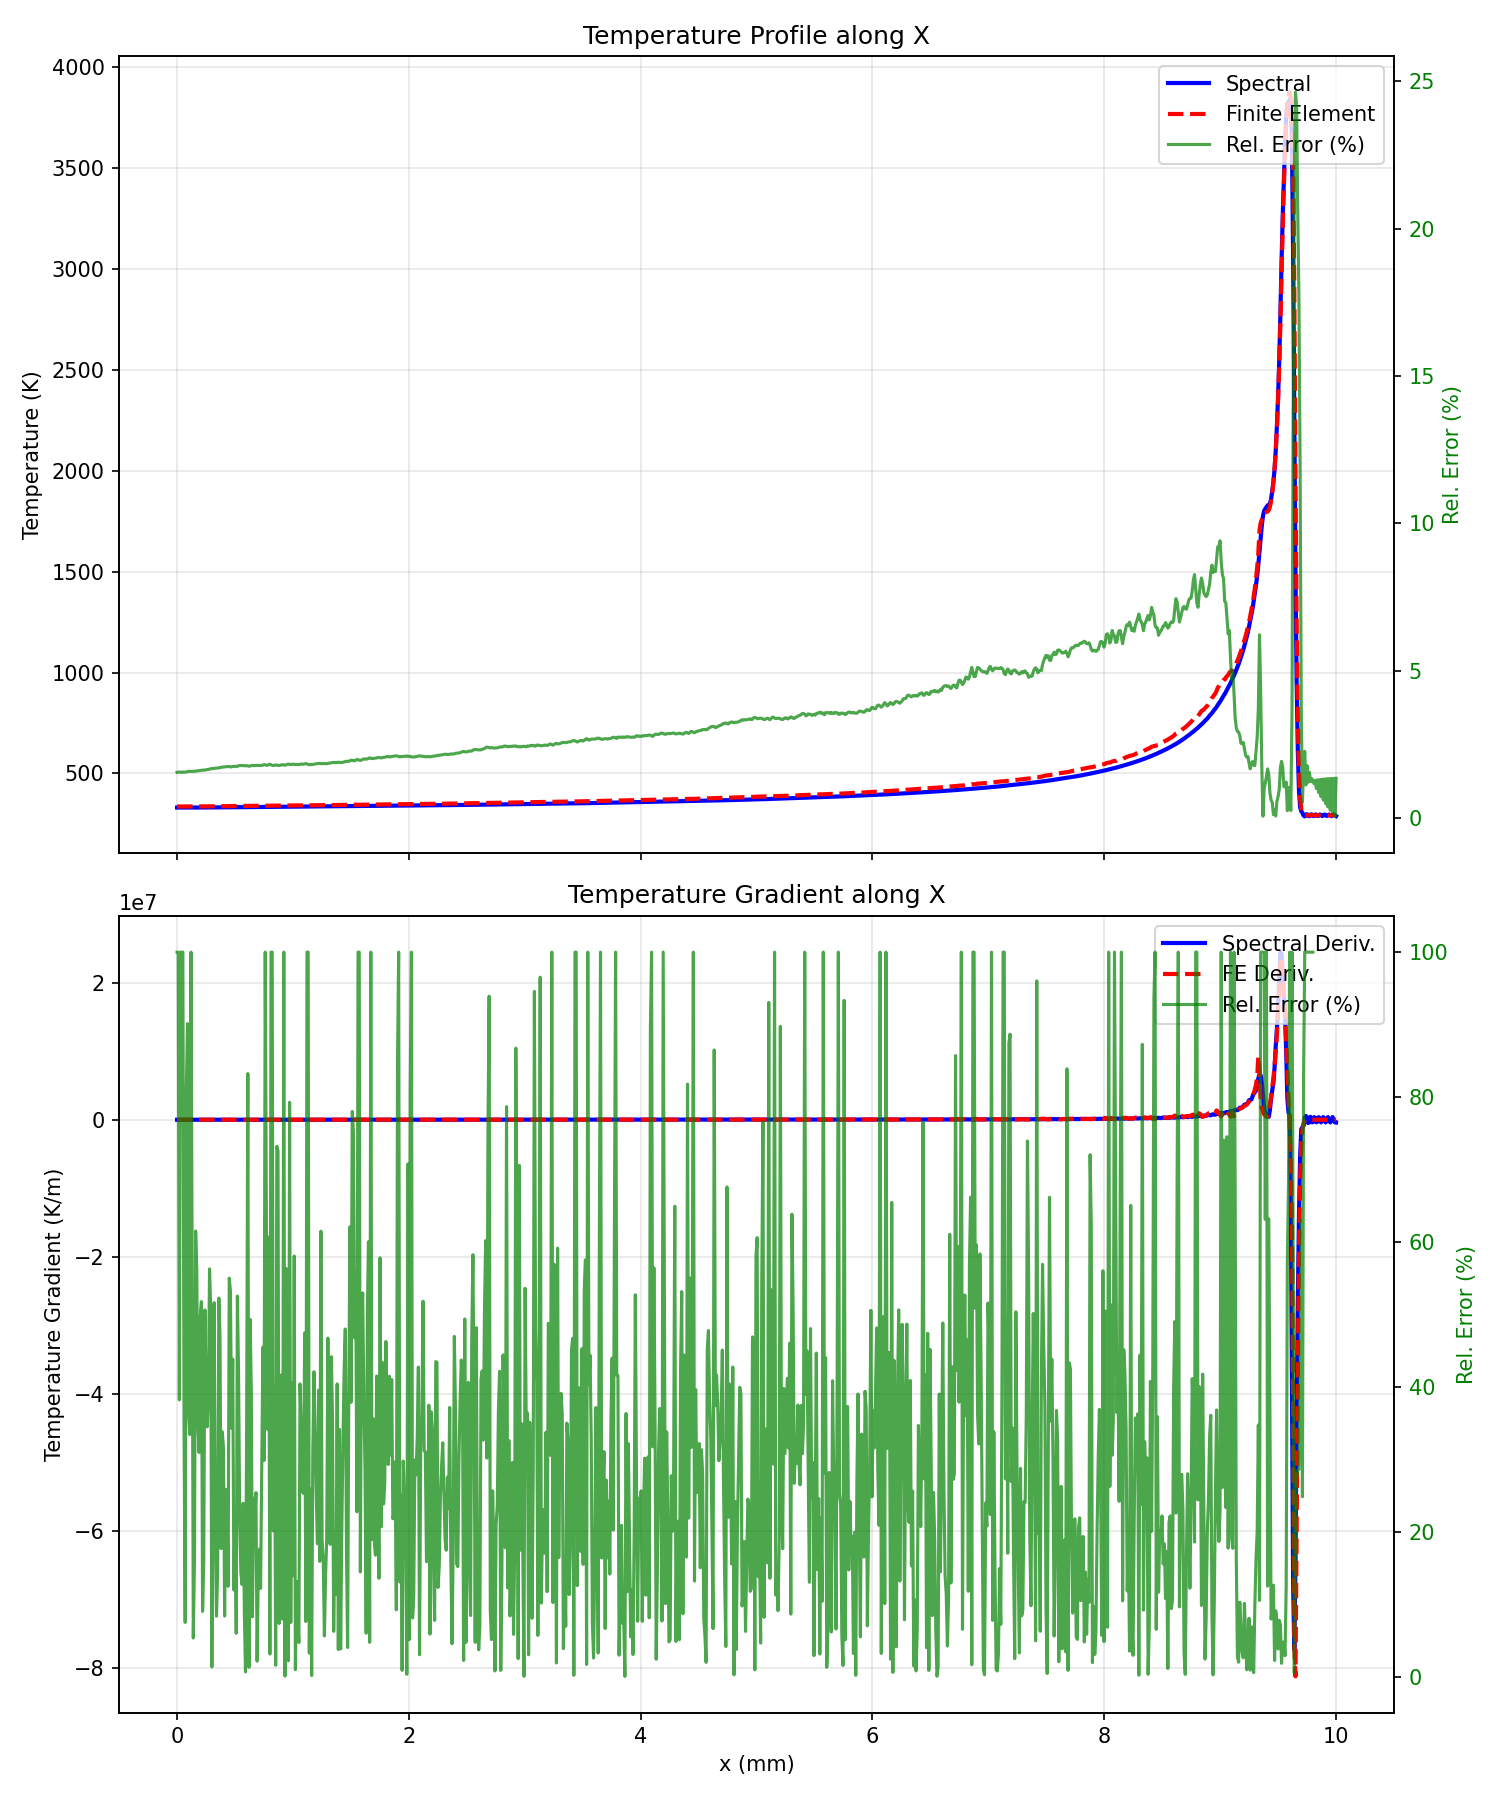
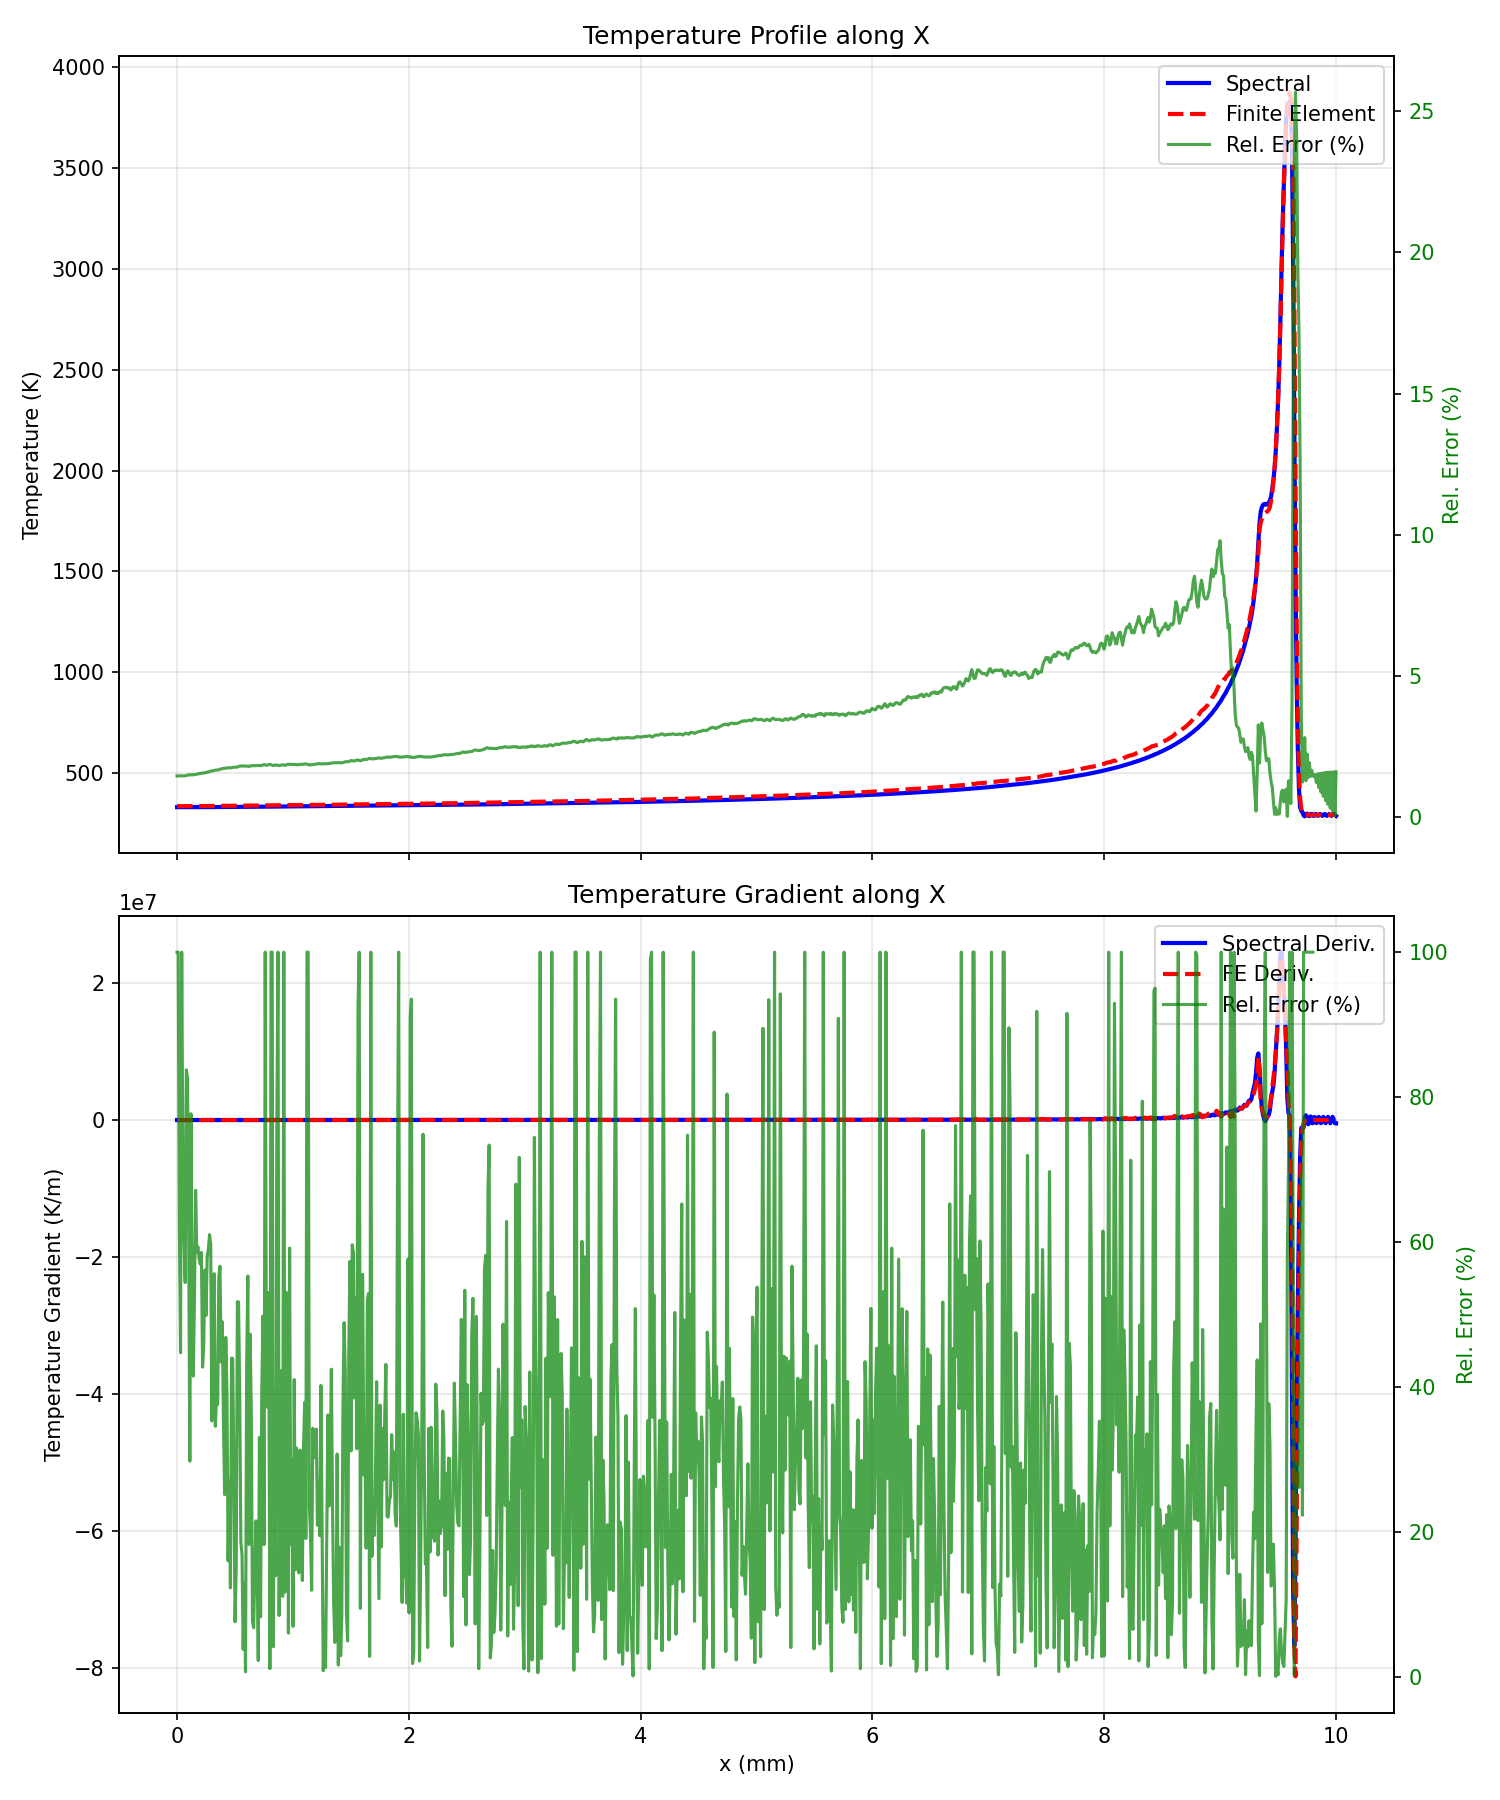
test gpu

diff --git a/implementations/physics/spectral_gpu_kernels.py b/implementations/physics/spectral_gpu_kernels.py
@@ -12,16 +12,58 @@ import utils.spectral_helpers as spec_hp  # Assuming this contains only scalar l
 # ======================================
 
 @cuda.jit
-def update_modes_etd1_kernel(aK, KK_by_Cp, B_scaled, a_temp_out):
+def update_modes_etd1_kernel(aK, B_scaled, a_temp_out, K, kx2, ky2, kz2, alpha, dt, rho_Cp):
     """
     Update spectral coefficients for ETD1 scheme.
+    Computes KK on the fly to save memory.
     Grid: 3D (nz, ny, nx)
     """
     z, y, x = cuda.grid(3)
     nz, ny, nx = aK.shape
 
     if z < nz and y < ny and x < nx:
-        a_temp_out[z, y, x] = aK[z, y, x] + KK_by_Cp[z, y, x] * B_scaled[y, x]
+        # Compute KK inline
+        # KK = (K - 1) / (-alpha * k^2 * rho * Cp)
+        # alpha * k^2
+        k2 = kx2[x] + ky2[y] + kz2[z]
+        denom = alpha * k2
+        
+        if denom == 0.0:
+            KK_val = dt / rho_Cp
+        else:
+            KK_val = (K[z, y, x] - 1.0) / (-denom * rho_Cp)
+            
+        a_temp_out[z, y, x] = aK[z, y, x] + KK_val * B_scaled[y, x]
+
+@cuda.jit
+def add_projected_source_kernel(a_temp, temp2, Bx, K, kx2, ky2, kz2, alpha, dt, rho_Cp):
+    """
+    Project partial source term (temp2) onto x-modes and add to a_temp weighted by KK.
+    temp2: (nx_box, nz, ny)
+    Bx: (nx, nx_box)
+    a_temp: (nz, ny, nx)
+    """
+    z, y, x = cuda.grid(3)
+    nz, ny, nx = a_temp.shape
+    nx_box = temp2.shape[0]
+    
+    if z < nz and y < ny and x < nx:
+        # 1. Finish Projection (Dot product over box x-modes)
+        Q_val = 0.0
+        for i in range(nx_box):
+            Q_val += temp2[i, z, y] * Bx[x, i] # Bx is (nx, nx_box)
+            
+        # 2. Compute KK inline
+        k2 = kx2[x] + ky2[y] + kz2[z]
+        denom = alpha * k2
+        
+        if denom == 0.0:
+            KK_val = dt / rho_Cp
+        else:
+            KK_val = (K[z, y, x] - 1.0) / (-denom * rho_Cp)
+            
+        # 3. Add to state
+        a_temp[z, y, x] += KK_val * Q_val
 
 @cuda.jit
 def add_source_term_modes_kernel(a_temp, KK, Q_modes):
@@ -92,12 +134,22 @@ class SpectralSolverState:
     """
     # Spectral Propagators
     K: cp.ndarray = None
-    KK: cp.ndarray = None
-    KK_by_Cp: cp.ndarray = None
+    # KK: cp.ndarray = None      # Removed to save memory
+    # KK_by_Cp: cp.ndarray = None # Removed to save memory
+     
+    # K-vector squared components for on-the-fly KK computation
+    kx2: cp.ndarray = None
+    ky2: cp.ndarray = None
+    kz2: cp.ndarray = None
+    
+    # Physics scalars for KK computation
+    alpha: float = 0.0
+    dt: float = 0.0
+    rho_Cp: float = 0.0
     
     # State Arrays
     a: cp.ndarray = None       # Current temperature modes (nz, ny, nx)
-    aK: cp.ndarray = None      # Decayed temperature modes (nz, ny, nx)
+    # aK: cp.ndarray = None      # Removed, we reuse 'a' as accumulator
     a_temp: cp.ndarray = None  # Temporary working array (nz, ny, nx)
     
     # Buffers
@@ -130,6 +182,10 @@ class SpectralSolverState:
     nx_box: int = 0
     ny_box: int = 0
     nz_box: int = 0
+    
+    # helper for slicing
+    box_y_ind_start: int = 0
+    box_y_ind_end: int = 0
     
     fine_mesh_initialized: bool = False
     
@@ -261,47 +317,45 @@ class SpectralSolverState:
         self.Bx_fine = cp.zeros((nx, self.nx_box), dtype=cp.float32)
         self.By_fine = cp.zeros((ny, self.ny_box), dtype=cp.float32)
         self.Bz_fine = self.Bz_fine_full[:, :self.nz_box] # Slicing works on GPU
-        self.box_x = cp.zeros(self.nx_box, dtype=cp.float32)
-        self.box_y = cp.zeros(self.ny_box, dtype=cp.float32)
-        self.box_z = z_fine_global # Use actual cell centers
-        
-        self.fine_mesh_initialized = False
-        self.ix_laser_box = max(0, min(self.nx_box - 1, int(round(0.5 * (self.nx_box - 1)))))
-        
-        self.dV_fine = self.dx_fine * self.dy_fine * self.dz_fine
-
-    def prepare_K_buffers(self, phys, geom, num):
-        """Precompute spectral propagators and allocate buffers on GPU."""
+        self.box_x = cK and setup scalar params for on-the-fly KK."""
         import logging
         logger = logging.getLogger(__name__)
-        logger.info("Precomputing K, KK on GPU... ")
+        logger.info("Precomputing K on GPU... ")
         
-        self.K, self.KK = precompute_K_KK(phys, num, geom)
-        # Project KK onto top-surface weighted Cp for source projection
-        nx, ny, nz = num.nx, num.ny, num.nz
-        sign = cp.power(-1.0, cp.arange(nz, dtype=cp.float32)).astype(cp.float32)
-        Cp_top = (self.Cp.astype(cp.float32) * sign)
-        self.KK_by_Cp = (self.KK * Cp_top[:, None, None]).astype(cp.float32)
+        self.K, self.kx2, self.ky2, self.kz2 = precompute_K_and_k2(phys, num, geom)
+        
+        # Store scalars
+        self.alpha = phys.k / (phys.rho * phys.Cp)
+        self.dt = num.dt
+        self.rho_Cp = phys.rho * phys.Cp
         
         # Allocate working arrays on GPU
-        self.q_diff = cp.empty((ny, nx), dtype=cp.float32)
-        self.B_buffer = cp.empty((ny, nx), dtype=cp.float32)
-        self.a_temp = cp.empty((nz, ny, nx), dtype=cp.float32)
-        self.aK = cp.empty((nz, ny, nx), dtype=cp.float32)
-        self.q_evap_old = cp.zeros((ny, nx), dtype=cp.float32)
-        self.q_evap_buffer = cp.zeros((ny, nx), dtype=cp.float32)
+        # Reduced memory: aK removed, KK removed
+        self.q_diff = cp.empty((num.ny, num.nx), dtype=cp.float32)
+        self.B_buffer = cp.empty((num.ny, num.nx), dtype=cp.float32)
+        self.a_temp = cp.empty((num.nz, num.ny, num.nx), dtype=cp.float32)
+        
+        # Re-use 'a' logic will happen in solver class
+        # self.aK = cp.empty((nz, ny, nx), dtype=cp.float32) # Removed
+        
+        self.q_evap_old = cp.zeros((num.ny, num.nx), dtype=cp.float32)
+        self.q_evap_buffer = cp.zeros((num.ny, num.nx), dtype=cp.float32)
         # ZYX layout
         self.Q_latent_buffer = cp.zeros((self.nz_box, self.ny_box, self.nx_box), dtype=cp.float32)
 
 
-def precompute_K_KK(phys, num, geom):
+def precompute_K_and_k2(phys, num, geom):
     """
-    Compute spectral Propagators (K, KK) on GPU.
+    Compute K and return k^2 components.
     """
     # Use CuPy
     kx = (np.pi * cp.arange(num.nx) / geom.Lx)
     ky = (np.pi * cp.arange(num.ny) / geom.Ly)
     kz = (np.pi * cp.arange(num.nz) / geom.Lz)
+
+    kx2 = kx**2
+    ky2 = ky**2
+    kz2 = kz**2
 
     # meshgrid(..., indexing='ij')
     KX, KY, KZ = cp.meshgrid(kx, ky, kz, indexing='ij')
@@ -310,6 +364,7 @@ def precompute_K_KK(phys, num, geom):
     alpha = phys.k / (phys.rho * phys.Cp)
     K = cp.exp(-alpha * k2 * num.dt).astype(cp.float32)
 
+    return K, kx2.astype(cp.float32), ky2.astype(cp.float32), kz2.astype(cp.float32)
     denom = alpha * k2
     mask_zero = (denom == 0)
     # Avoid div by zero
@@ -325,8 +380,8 @@ def precompute_K_KK(phys, num, geom):
 # Wrapper Functions
 # ======================================
 
-def update_modes_etd1(aK, KK_by_Cp, B_scaled, a_temp_out):
-    """Wrapper for ETD1 kernel."""
+def update_modes_etd1(aK, SsState, B_scaled, a_temp_out):
+    """Wrapper for ETD1 kernel with on-the-fly KK."""
     nz, ny, nx = aK.shape
     # Block dims
     threadsperblock = (8, 8, 8)
@@ -335,20 +390,58 @@ def update_modes_etd1(aK, KK_by_Cp, B_scaled, a_temp_out):
         (ny + threadsperblock[1] - 1) // threadsperblock[1],
         (nx + threadsperblock[2] - 1) // threadsperblock[2]
     )
-    update_modes_etd1_kernel[blockspergrid, threadsperblock](aK, KK_by_Cp, B_scaled, a_temp_out)
+    update_modes_etd1_kernel[blockspergrid, threadsperblock](
+        aK, B_scaled, a_temp_out,
+        SsState.K, SsState.kx2, SsState.ky2, SsState.kz2,
+        SsState.alpha, SsState.dt, SsState.rho_Cp
+    )
 
 
-def add_source_term_modes(a_temp, KK, Q_modes):
-    """Wrapper for Source Term Accumulation."""
-    nz, ny, nx = a_temp.shape
+def add_projected_source(a_target, field_box, SsState):
+    """
+    Project fine box field to global spectral modes and add to a_target weighted by KK.
+    Does NOT allocate full 3D intermediate array.
+    """
+    if not SsState.fine_mesh_initialized:
+        raise RuntimeError("Fine mesh not initialized.")
+    
+    # partial contraction steps
+    # 1. Contract Z: (nz_box, ny_box, nx_box) . (nz, nz_box) -> (ny_box, nx_box, nz)
+    # Bz_fine should be sliced (nz, nz_box)
+    Bz_fine = SsState.Bz_fine_full[:, :SsState.nz_box]
+    temp1 = cp.tensordot(field_box, Bz_fine, axes=(0, 1))
+    
+    # 2. Contract Y: (ny_box, nx_box, nz) . (ny, ny_box) -> (nx_box, nz, ny)
+    By_fine = SsState.By_fine_full[:, SsState.box_y_ind_start:SsState.box_y_ind_end] 
+    # Oops, need indices from solver state update?
+    # Actually SsState.By_fine IS the sliced/copied array in current code. 
+    # Let's check update_fine_mesh below. 
+    # It updates SsState.By_fine. So use it.
+    
+    temp2 = cp.tensordot(temp1, SsState.By_fine, axes=(0, 1))
+    
+    # temp2 is (nx_box, nz, ny).
+    
+    # 3. Final transform and addition via kernel
+    nz, ny, nx = a_target.shape
     threadsperblock = (8, 8, 8)
     blockspergrid = (
         (nz + threadsperblock[0] - 1) // threadsperblock[0],
         (ny + threadsperblock[1] - 1) // threadsperblock[1],
         (nx + threadsperblock[2] - 1) // threadsperblock[2]
     )
-    add_source_term_modes_kernel[blockspergrid, threadsperblock](a_temp, KK, Q_modes)
+    
+    # Scale by volume element dV_fine before adding?
+    # In original: modes *= SsState.dV_fine
+    # We can scale temp2 or do it in kernel. 
+    # Scaling temp2 is one operation on smaller array.
+    temp2 *= SsState.dV_fine
 
+    add_projected_source_kernel[blockspergrid, threadsperblock](
+        a_target, temp2, SsState.Bx_fine,
+        SsState.K, SsState.kx2, SsState.ky2, SsState.kz2,
+        SsState.alpha, SsState.dt, SsState.rho_Cp
+    )
 
 def compute_evaporation_flux(T_surface, q_out, P0, R_gas, T_boil, DeltaH_LV, R_v, T_liquidus):
     """Wrapper for Evaporation kernel."""
@@ -368,23 +461,6 @@ def compute_gaussian_laser_flux(X, Y, laser_x, laser_y, laser_r, laser_coef):
     # CuPy handles element-wise operations automatically
     r_sq = (X - laser_x) ** 2 + (Y - laser_y) ** 2
     return (laser_coef * cp.exp(-2.0 * r_sq / laser_r ** 2)).astype(cp.float32)
-
-
-def project_box_to_modes(field_box, SsState):
-    """Project fine box field to global spectral modes (GPU)."""
-    if not SsState.fine_mesh_initialized:
-        raise RuntimeError("Fine mesh not initialized.")
-    
-    # cp.tensordot is highly optimized
-    # 1. Contract Z_box: (nz_box, ny_box, nx_box) . (nz, nz_box) -> (ny_box, nx_box, nz)
-    temp1 = cp.tensordot(field_box, SsState.Bz_fine, axes=(0, 1))
-    # 2. Contract Y_box: (ny_box, nx_box, nz) . (ny, ny_box) -> (nx_box, nz, ny)
-    temp2 = cp.tensordot(temp1, SsState.By_fine, axes=(0, 1))
-    # 3. Contract X_box: (nx_box, nz, ny) . (nx, nx_box) -> (nz, ny, nx)
-    modes = cp.tensordot(temp2, SsState.Bx_fine, axes=(0, 1))
-    
-    modes *= SsState.dV_fine
-    return modes.astype(cp.float32)
 
 
 def reconstruct_temperature_box(a, SsState):
@@ -551,6 +627,10 @@ def update_fine_mesh(SsState, x_laser, y_laser):
         y_laser, SsState.dy_fine, SsState.ny_fine_total, SsState.ny_box
     )
     
+    # Store indices for optimized slicing in add_projected_source if needed
+    SsState.box_y_ind_start = iy_start 
+    SsState.box_y_ind_end = iy_end
+
     SsState.box_y[:] = SsState.y_fine[iy_start:iy_end]
     SsState.By_fine[:, :] = SsState.By_fine_full[:, iy_start:iy_end]
 

diff --git a/implementations/solvers/spectral_gpu.py b/implementations/solvers/spectral_gpu.py
@@ -38,7 +38,7 @@ class SpectralSolverGPU:
         self.state.a[0,0,0] = cp.asarray(T0 * (geom.Lx * geom.Ly * geom.Lz) ** 0.5, dtype=cp.float32)
 
         # Ensure all state arrays are on GPU (CuPy) TO DO - Ensure in kernels directly
-        for attr in ["aK", "a_temp", "K", "KK", "KK_by_Cp", "q_evap_old", "q_evap_buffer", "q_diff", "B_buffer", "Q_latent_buffer"]:
+        for attr in ["a_temp", "K", "q_evap_old", "q_evap_buffer", "q_diff", "B_buffer", "Q_latent_buffer"]:
             arr = getattr(self.state, attr, None)
             if arr is not None and not isinstance(arr, cp.ndarray):
                 setattr(self.state, attr, cp.asarray(arr, dtype=cp.float32))
@@ -87,19 +87,26 @@ class SpectralSolverGPU:
         q_dct = kernels.DCT_II(q_las - q_evap)
 
         # 2. Linear step (ETD1)
-        cp.multiply(cp.asarray(a), cp.asarray(SsState.K), out=SsState.aK, casting='same_kind')
+        # Apply decay to 'a' in-place (a becomes the base decayed state for this step)
+        cp.multiply(a, SsState.K, out=a)
+        
+        # Prepare Source term S_n
         S_n = SsState.dct_scale * q_dct
         cp.multiply(SsState.dct_scale, q_dct, out=SsState.B_buffer, casting='same_kind')
-        kernels.update_modes_etd1(SsState.aK, SsState.KK_by_Cp, SsState.B_buffer, SsState.a_temp)
+        
+        # Compute first estimate a_temp (includes linear decay + initial source guess)
+        kernels.update_modes_etd1(a, SsState, SsState.B_buffer, SsState.a_temp)
         S_current = S_n.copy()
 
         # 3. Latent Heat Correction
-        kernels.update_fine_mesh(SsState, x, y) # can be moved easily to kernels
+        kernels.update_fine_mesh(SsState, x, y)
         SsState.Q_latent_buffer.fill(0.0)
         kernels.compute_latent_heat_source(SsState.Q_latent_buffer, mat, x, y, num, SsState)
-        Q_modes = kernels.project_box_to_modes(SsState.Q_latent_buffer, SsState)
-        kernels.add_source_term_modes(SsState.aK, SsState.KK, Q_modes)
-        kernels.add_source_term_modes(SsState.a_temp, SsState.KK, Q_modes)
+        
+        # Project latent heat directly into 'a' (base state) and 'a_temp' (current estimate)
+        # This modifies 'a' to include the integrated latent heat, so it serves effectively as 'aK' from original code
+        kernels.add_projected_source(a, SsState.Q_latent_buffer, SsState)
+        kernels.add_projected_source(SsState.a_temp, SsState.Q_latent_buffer, SsState)
 
         # 4. Nonlinear iteration for evaporation
         T_temp = kernels.reconstruct_surface_temperature(SsState.a_temp, SsState)
@@ -113,7 +120,10 @@ class SpectralSolverGPU:
             S_target = SsState.dct_scale * kernels.DCT_II(SsState.q_diff)
             S_current = 0.1 * S_target + 0.9 * S_current
             cp.multiply(1.0, S_current, out=SsState.B_buffer, casting='same_kind')
-            kernels.update_modes_etd1(SsState.aK, SsState.KK_by_Cp, SsState.B_buffer, SsState.a_temp)
+            
+            # Recompute a_temp from base 'a' (which includes latent heat now) and new source S_current
+            kernels.update_modes_etd1(a, SsState, SsState.B_buffer, SsState.a_temp)
+            
             T_old = T_temp
             T_temp = kernels.reconstruct_surface_temperature(SsState.a_temp, SsState)
             if cp.max(cp.abs(T_temp - T_old)) < 2e+1:
@@ -129,6 +139,8 @@ class SpectralSolverGPU:
             'n_evap_iter': k+1
         }
 
-        # Update state for next step
-        SsState.a = SsState.a_temp.copy()
+        # Update state for next step by ping-pong swapping
+        # 'a_temp' holds validity, 'a' holds garbage. Swap so 'a' holds validity.
+        SsState.a, SsState.a_temp = SsState.a_temp, SsState.a
+        
         return SsState, metrics
